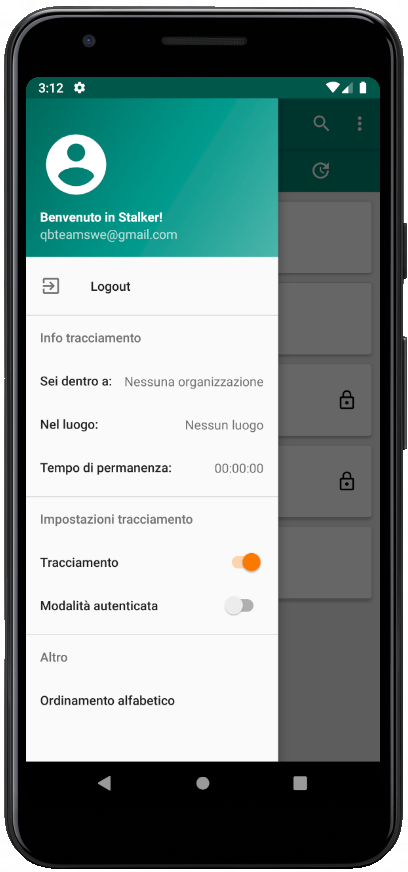
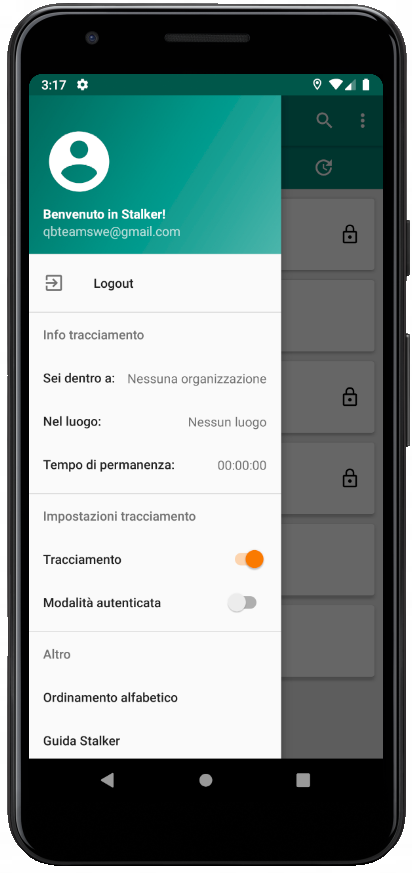
aggiunta spiegazione guida stalker APP

diff --git a/DocumentazioneEsterna/ManualeUtente/docs/app/funzionalita.md b/DocumentazioneEsterna/ManualeUtente/docs/app/funzionalita.md
@@ -48,7 +48,8 @@ Una volta cliccato su questo bottone apparirà il menù drawer, da cui è possib
 - Eseguire il logout;
 - Attivare o disattivare il tracciamento tramite uno pulsante switch;
 - Scegliere se essere tracciati in modalità anonima (impostata come default) o in modalità autenticata tramite uno pulsante switch;
-- Ordinare alfabeticamente la lista delle organizzazioni.
+- Ordinare alfabeticamente la lista delle organizzazioni;
+- Guida Stalker, cioè un link che indirizza l'utente nella pagina web dedicata alla guida dell'applicazione.
 
 Inoltre è presente una sezione denominata "info tracciamento" per visualizzare le seguenti informazioni:
 
